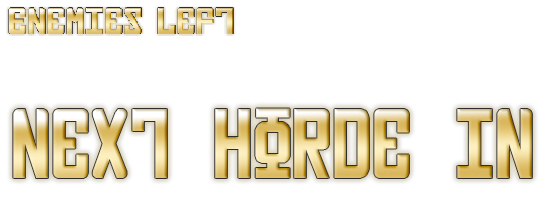
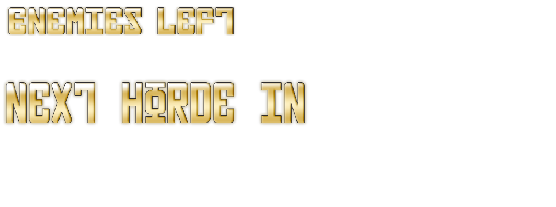
Fixed_Pause, changed the size of Incoming horde

diff --git a/Order_227/Motor2D/UserInterface.cpp b/Order_227/Motor2D/UserInterface.cpp
@@ -207,8 +207,8 @@ bool User_Interface::Start()
 	ReturnMainMenu_Label3 = CreateText(fPoint(width / 2, height / 1.75), "EXIT", font_id::MOLOT, White, false, LoseIcon);
 	LoseIcon->Deactivate();
 
-	incomingHordein = CreateImage(fPoint(width / 2.9, height / 2.5), SDL_Rect({ 0,100,556,120 }), InGame_Label_tex);
-	timerHorde = CreateText(fPoint(width / 1.7, height / 3.1), timerHorde_temp.c_str(), font_id::MOLOT, White, false, NULL,3.0f);
+	incomingHordein = CreateImage(fPoint(width / 7, height / 2.5), SDL_Rect({ 0,66,320,78 }), InGame_Label_tex);
+	timerHorde = CreateText(fPoint(width / 3.8f, height / 2.9f), timerHorde_temp.c_str(), font_id::MOLOT, White, false, NULL,2.0f);
 	Enemies_left = CreateImage(fPoint(120, 50), SDL_Rect({ 0,0,245,46 }), InGame_Label_tex);
 	Eniemies_left_Label = CreateText(fPoint(265, 50), "0", font_id::MOLOT, White, false, NULL, 1.0f);
 

diff --git a/Order_227/Motor2D/ButtonActions.cpp b/Order_227/Motor2D/ButtonActions.cpp
@@ -154,7 +154,7 @@ void StartGame() {
 	myApp->gui->Current_Screen = Screen_Type::SCREEN_INGAME;
 	myApp->scene->SwitchMusic(Screen_Type::SCREEN_INGAME);
 	myApp->scene->ActivateGameOverMusic = true;
-
+	myApp->gui->OnPause = false;
 	myApp->gui->WinIcon->Deactivate();
 	myApp->gui->LoseIcon->Deactivate();
 
